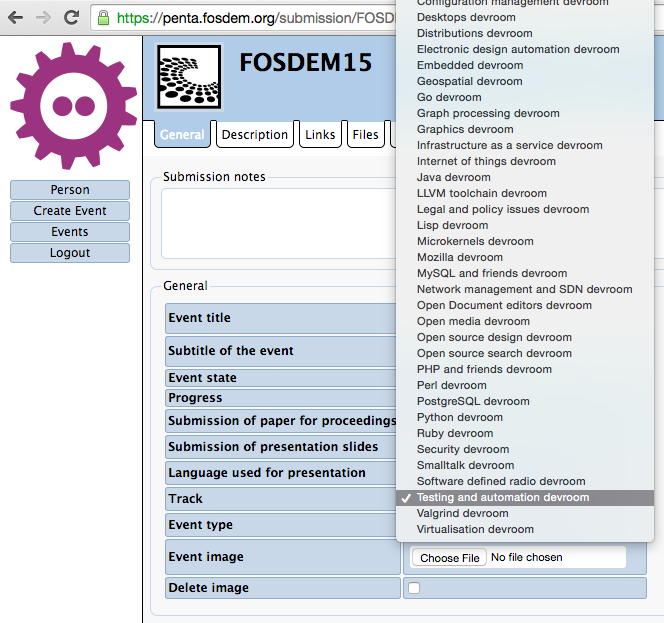
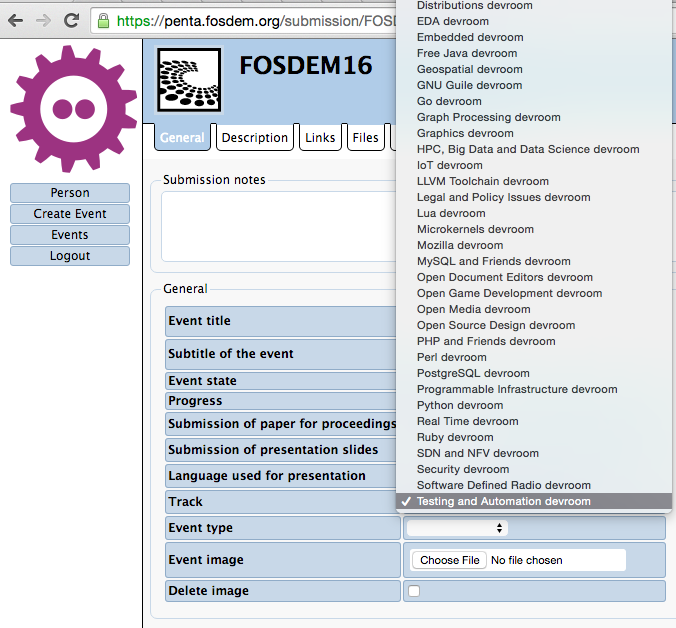
update readme w/ 2016 info

Changed region(s): [[0.0, 0.0, 1.0, 1.0], [0.0, 0.1525, 0.0301, 0.183]]

diff --git a/index.html b/index.html
@@ -30,12 +30,12 @@
         <h1>
 <a name="why" class="anchor" href="#why"><span class="octicon octicon-link"></span></a>Why</h1>
 
-<p>This is the third year for the Testing/Automation dev room at <a href="https://fosdem.org/2015">FOSDEM</a>. This room is about creating better software through a focus on testing and automation at all layers of the stack. From creating libraries and end-user applications all the way down to packaging, distribution and deployment. Testing and automation is not isolated to a single toolchain, language or platform, there is much to learn and share regardless of background!</p>
+<p>This is the fourth year for the Testing/Automation dev room at <a href="https://fosdem.org/2016">FOSDEM</a>. This room is about creating better software through a focus on testing and automation at all layers of the stack. From creating libraries and end-user applications all the way down to packaging, distribution and deployment. Testing and automation is not isolated to a single toolchain, language or platform, there is much to learn and share regardless of background!</p>
 
 <h1>
 <a name="what" class="anchor" href="#what"><span class="octicon octicon-link"></span></a>What</h1>
 
-<p>Since this is the third year we're hosting the Testing and Automation dev room, here are some ideas of what we would like to see, and what worked in prior years, they're just ideas though! Check out the <a href="https://archive.fosdem.org/2013/schedule/track/testing_and_automation/">2013</a> and <a href="https://archive.fosdem.org/2014/schedule/track/testing_and_automation/">2014</a> schedules for inspiration.</p>
+<p>Since this is the fourth year we're hosting the Testing and Automation dev room, here are some ideas of what we would like to see, and what worked in prior years, they're just ideas though! Check out the <a href="https://archive.fosdem.org/2013/schedule/track/testing_and_automation/">2013</a>, <a href="https://archive.fosdem.org/2014/schedule/track/testing_and_automation/">2014</a>, and <a href="https://archive.fosdem.org/2015/schedule/track/testing_and_automation/">2015</a> schedules for inspiration.</p>
 
 <h3>
 <a name="testing-in-the-real-open-source-world" class="anchor" href="#testing-in-the-real-open-source-world"><span class="octicon octicon-link"></span></a>Testing in the real, open source world</h3>
@@ -57,23 +57,23 @@
 <h1>
 <a name="where" class="anchor" href="#where"><span class="octicon octicon-link"></span></a>Where</h1>
 
-<p>FOSDEM is hosted at <a href="https://fosdem.org/2015/practical/transportation/">Université libre de Bruxelles in Brussels, Belgium</a>. The Testing and Automation dev room is currently slated for Building H, room 1309, which seats ~145.</p>
+<p>FOSDEM is hosted at <a href="https://fosdem.org/2016/practical/transportation/">Université libre de Bruxelles in Brussels, Belgium</a>. The Testing and Automation dev room is likely slated for Building H, room 1309, which seats ~145.</p>
 
 <h1>
 <a name="when" class="anchor" href="#when"><span class="octicon octicon-link"></span></a>When</h1>
 
 <ul>
-<li>CFP Submission Deadline: 23:59 UTC, 1 December 2014</li>
-<li>Schedule Announced: 15 December 2014</li>
-<li>Presentations: 1 February 2015</li>
+<li>CFP Submission Deadline: 23:59 UTC, 30 November 2015</li>
+<li>Schedule Announced: 15 December 2015</li>
+<li>Presentations: 30 January 2016</li>
 </ul>
 
 <h1>
 <a name="how" class="anchor" href="#how"><span class="octicon octicon-link"></span></a>How</h1>
 
-<p>Please submit one (or more) 30-40 minute talk proposal(s) OR one (or more) 10 minute lightning talk proposal(s) by <strong>23:59 UTC on December 1st 2014</strong>. We will notify all those submitting proposals about their acceptance by December 15th 2014.</p>
+<p>Please submit one (or more) 30-40 minute talk proposal(s) OR one (or more) 10 minute lightning talk proposal(s) by <strong>23:59 UTC on November 30th 2015</strong>. We will notify all those submitting proposals about their acceptance by December 15th 2015.</p>
 
-<p>To submit a talk proposal (you can submit multiple proposals if you'd like) with <a href="https://penta.fosdem.org/submission/FOSDEM15">Pentabarf</a>, the FOSDEM paper submission system. Be sure to select <code>Testing and Automation</code> otherwise we won't see it!</p>
+<p>To submit a talk proposal (you can submit multiple proposals if you'd like) with <a href="https://penta.fosdem.org/submission/FOSDEM16">Pentabarf</a>, the FOSDEM paper submission system. Be sure to select <code>Testing and Automation</code> otherwise we won't see it!</p>
 
 <p><img src="https://raw.githubusercontent.com/fosdem-testingautomation/fosdem-testingautomation.github.io/master/images/track_selection.png" alt="Selecting Testing and Automation track"></p>
 

diff --git a/README.md b/README.md
@@ -1,8 +1,8 @@
 # Why
-This is the third year for the Testing/Automation dev room at [FOSDEM](https://fosdem.org/2015). This room is about creating better software through a focus on testing and automation at all layers of the stack. From creating libraries and end-user applications all the way down to packaging, distribution and deployment. Testing and automation is not isolated to a single toolchain, language or platform, there is much to learn and share regardless of background!
+This is the fourth year for the Testing/Automation dev room at [FOSDEM](https://fosdem.org/2016). This room is about creating better software through a focus on testing and automation at all layers of the stack. From creating libraries and end-user applications all the way down to packaging, distribution and deployment. Testing and automation is not isolated to a single toolchain, language or platform, there is much to learn and share regardless of background!
 
 # What
-Since this is the third year we're hosting the Testing and Automation dev room, here are some ideas of what we would like to see, and what worked in prior years, they're just ideas though! Check out the [2013](https://archive.fosdem.org/2013/schedule/track/testing_and_automation/) and [2014](https://archive.fosdem.org/2014/schedule/track/testing_and_automation/) schedules for inspiration.
+Since this is the fourth year we're hosting the Testing and Automation dev room, here are some ideas of what we would like to see, and what worked in prior years, they're just ideas though! Check out the [2013](https://archive.fosdem.org/2013/schedule/track/testing_and_automation/), [2014](https://archive.fosdem.org/2014/schedule/track/testing_and_automation/), and [2015](https://archive.fosdem.org/2015/schedule/track/testing_and_automation/) schedules for inspiration.
 
 ### Testing in the real, open source world
 * War stories/strategies for testing large scale or complex projects
@@ -14,17 +14,17 @@ Since this is the third year we're hosting the Testing and Automation dev room, 
 * Combining projects/plugins/tools to build amazing things "Not enough people in the open source community know how to use $X, but here's a tutorial on how to use $X to make your project better."
 
 # Where
-FOSDEM is hosted at [Université libre de Bruxelles in Brussels, Belgium](https://fosdem.org/2015/practical/transportation/). The Testing and Automation dev room is currently slated for Building H, room 1309, which seats ~145.
+FOSDEM is hosted at [Université libre de Bruxelles in Brussels, Belgium](https://fosdem.org/2016/practical/transportation/). The Testing and Automation dev room is likely slated for Building H, room 1309, which seats ~145.
 
 # When
- * CFP Submission Deadline: **23:59 UTC, 1 December 2014**
- * Schedule Announced: **15 December 2014**
- * Presentations: **31 January and 1 February 2015**
+ * CFP Submission Deadline: **23:59 UTC, 30 November 2015**
+ * Schedule Announced: **15 December 2015**
+ * Presentations: **30 January 2016**
 
 # How
-Please submit one (or more) 30-40 minute talk proposal(s) OR one (or more) 10 minute lightning talk proposal(s) by **23:59 UTC on December 1st 2014**. We will notify all those submitting proposals about their acceptance by December 15th 2014.
+Please submit one (or more) 30-40 minute talk proposal(s) OR one (or more) 10 minute lightning talk proposal(s) by **23:59 UTC on November 30th 2015**. We will notify all those submitting proposals about their acceptance by December 15th 2015.
 
-To submit a talk proposal (you can submit multiple proposals if you'd like) with [Pentabarf](https://penta.fosdem.org/submission/FOSDEM15), the FOSDEM paper submission system. Be sure to select `Testing and Automation` otherwise we won't see it!
+To submit a talk proposal (you can submit multiple proposals if you'd like) with [Pentabarf](https://penta.fosdem.org/submission/FOSDEM16), the FOSDEM paper submission system. Be sure to select `Testing and Automation` otherwise we won't see it!
 
 ![Selecting Testing and Automation track](https://raw.githubusercontent.com/fosdem-testingautomation/fosdem-testingautomation.github.io/master/images/track_selection.png)
 
